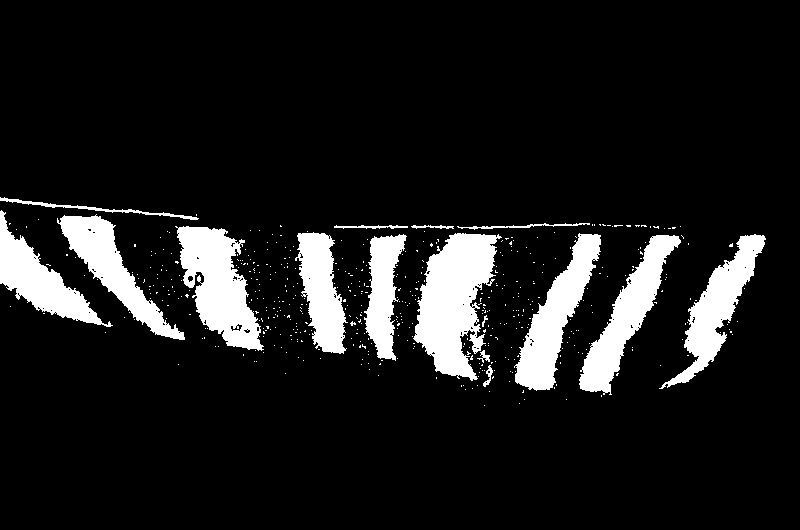
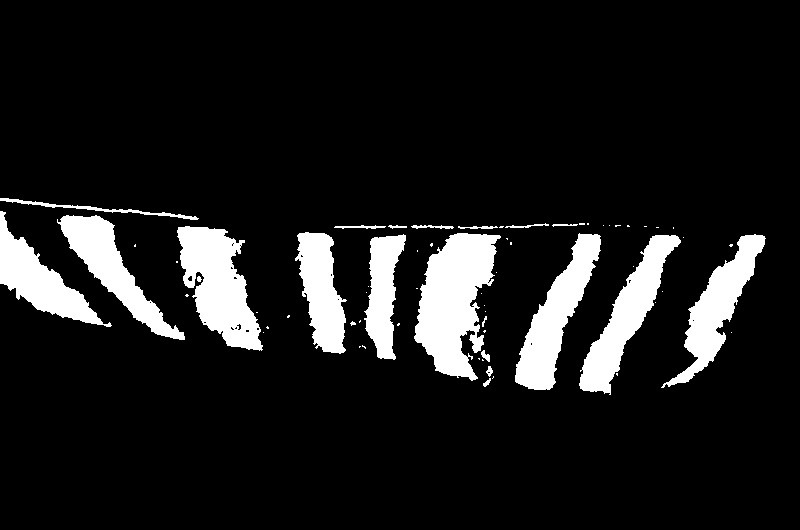
'foundation'

diff --git a/python/SlidingWindow/SlidingWindow.py b/python/SlidingWindow/SlidingWindow.py
@@ -1,0 +1,91 @@
+import cv2
+import numpy as np
+import sys
+
+sys.path.insert(1,"python/CV/Resnet50")
+import ResNet50
+
+
+class SlidingWindow:
+    def __init__(self) -> None:
+        pass
+
+    def analyse(image):
+        #cut image
+        crops = SlidingWindow.cutImage(image,50,50)
+        heatmap = np.zeros(image.shape, dtype=np.uint8) * 255
+        
+        for i in range(len(crops)):
+            #check for fault in neural netwerk
+            model = ResNet50.Resnet50_testModel.loadModel('python/CV/Resnet50/weights.h5')
+            testnet = ResNet50.Resnet50_testModel(model)
+            cv2.imwrite('python/SlidingWindow/tmp.jpg',crops[i][0])
+            predict = testnet.predictSingleImage('python/SlidingWindow/tmp.jpg')
+            if predict == "good":
+                heatmap = SlidingWindow.addTileToHeatmap(heatmap,crops[i][1],crops[i][2],0)
+            if predict == "bad":
+                heatmap = SlidingWindow.addTileToHeatmap(heatmap,crops[i][1],crops[i][2],1)
+
+        #opacity on heatmap
+        output = cv2.addWeighted(heatmap, 0.4, image, 1 - 0.4, 0)
+        cv2.imshow('map',output)
+        cv2.waitKey()
+        
+
+    #@param image = foto die meegegeven wordt
+    #@param frameH = hoogte van de deeltjes in pixels
+    #@param frameW = breedte van de deeltjes in pixels
+    #@output lijst van de deeltjes => [0] foto , [1] linkerbovenhoek, [2] rechter onderhoek
+    def cutImage(image,frameH,frameW):
+        height,width = image.shape[:2]
+
+        h = height/frameH
+        w = width/frameW
+        anountH = int((h*2)-1)
+        anountW = int((w*2)-1) 
+
+        print('H='+str(anountH)+'  W='+str(anountW))
+        counter = 0
+        crops = []
+
+        offsetH = 0
+        offsetW = 0
+        for i in range(anountW):
+            offsetH = 0
+            for j in range(anountH):
+                x1=offsetW
+                x2=offsetW+frameW
+                y1=offsetH
+                y2=offsetH+frameH
+                offsetH += frameH*0.5
+                print(str(counter)+'->'+str(y1)+':'+str(y2)+','+str(x1)+':',str(x2))
+                crop = image[int(y1):int(y2),int(x1):int(x2)]
+                crplist = [crop,(int(x1),int(y1)),(int(x2),int(y2))]
+                crops.append(crplist)
+                counter+=1
+            offsetW += frameW*0.5 
+        #for i in range(len(crops)):
+            #print(str(type(crops[i][0]))+' x,y 1='+str(crops[i][1])+'  x,y 2='+str(crops[i][2]))
+            #cv2.imshow('crops',crops[i])
+            #cv2.waitKey(0)
+        return crops
+    
+    #@param map = heatmap
+    #@param ltc = left top corner
+    #@param rbc = right botom corner
+    #@param kind = good or wrong (0 or 1)
+    #@output = heatmap
+    def addTileToHeatmap(map,ltc,rbc,kind):
+        color = (0,0,0)
+        if kind == 0:
+            color = (0, 255, 0) #in BGR
+        else: 
+            color = (0, 0, 255)
+        print(ltc)
+        print(rbc)
+        map = cv2.rectangle(map, ltc, rbc, color,cv2.FILLED)
+        return map
+
+if __name__ == '__main__':
+    im = cv2.imread("python/Camera/out/picture51.jpg")
+    SlidingWindow.analyse(im)

diff --git a/python/Camera/imProcessing.py b/python/Camera/imProcessing.py
@@ -31,18 +31,23 @@ class imProcessing():
         image = cv2.bitwise_and(crop_img, crop_img, mask=crop_mask)
         img = cv2.cvtColor(image, cv2.COLOR_BGR2GRAY)
         blur = cv2.GaussianBlur(img,(3,3),0)
-        ret,threshhold = cv2.threshold(img,0,255,cv2.THRESH_BINARY+cv2.THRESH_OTSU)
+        ret,threshhold = cv2.threshold(blur,0,255,cv2.THRESH_BINARY+cv2.THRESH_OTSU)
         return threshhold
 
+    def processChain(img):
+        low_blue = np.array([101, 30, 14])
+        high_blue = np.array([170, 255, 255])
+        out = imProcessing.removeColor(low_blue,high_blue,img)
+        out = imProcessing.threshhold(img,out)
+        return out
         
+if __name__ == '__main__':
+    low_blue = np.array([101, 30, 14])
+    high_blue = np.array([170, 255, 255])
 
-low_blue = np.array([101, 30, 14])
-high_blue = np.array([170, 255, 255])
-
-for filename in os.listdir("python/Camera/for_proces"):
-    print(filename)
-    im = cv2.imread(os.path.join("python/Camera/for_proces",filename))
-    output = imProcessing.removeColor(low_blue,high_blue,im)
-    output = imProcessing.threshhold(im,output)
-    cv2.imwrite(os.path.join("python/Camera/out",filename),output)
+    for filename in os.listdir("python/Camera/for_proces"):
+        print(filename)
+        im = cv2.imread(os.path.join("python/Camera/for_proces",filename))
+        output = imProcessing.processChain(im)
+        cv2.imwrite(os.path.join("python/Camera/out",filename),output)
         

diff --git a/python/CV/Resnet50/ResNet50.py b/python/CV/Resnet50/ResNet50.py
@@ -158,6 +158,7 @@ class Resnet50_testModel():
         im_tensor = self.imageLoader(input)
         predict = self.predict(im_tensor)
         print(f"predicted:{predict}")
+        return predict
 
     def predictDataset(self,dir_path):
         rp=0
